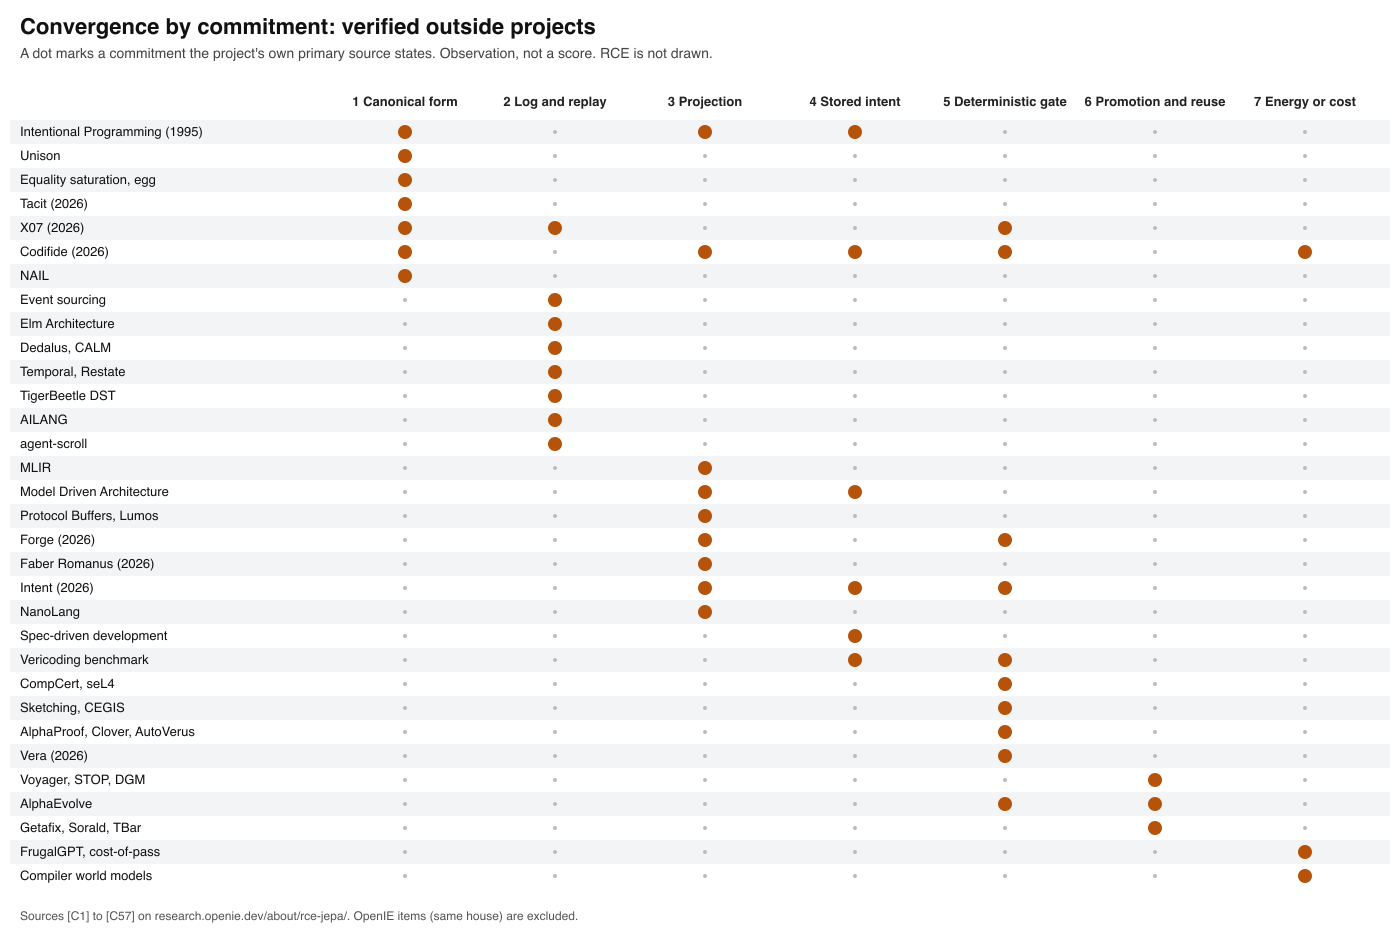
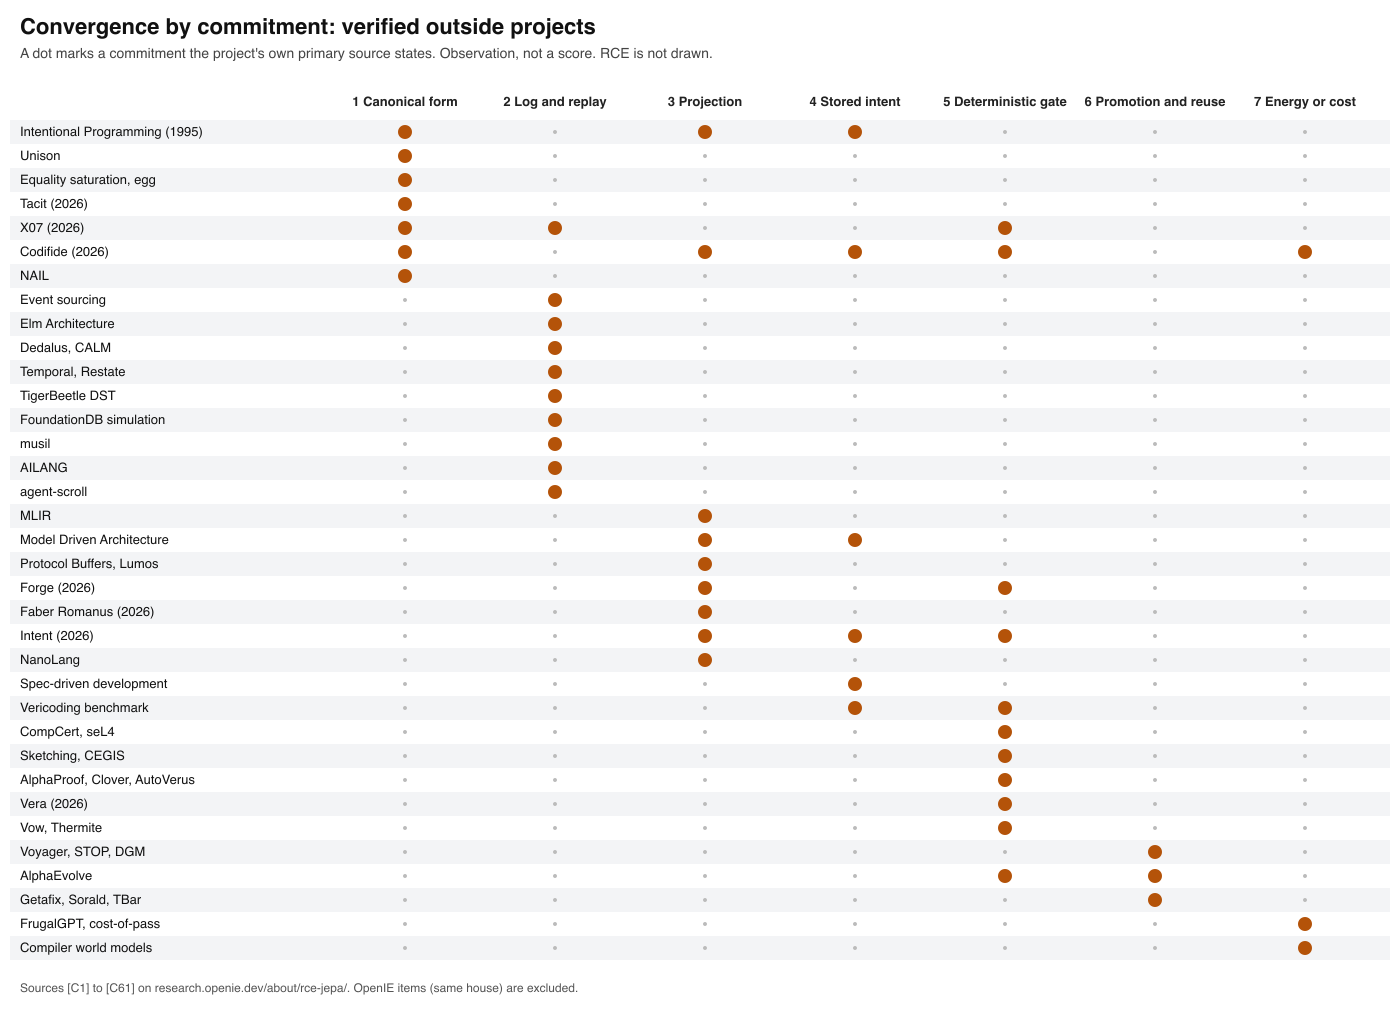
rce-jepa: redraw figure C1 with musil, FoundationDB, Vow, Thermite; thesis notes FoundationDB read in full

diff --git a/scripts/figures/rce_jepa_convergence.py b/scripts/figures/rce_jepa_convergence.py
@@ -6,11 +6,11 @@ rows = [
  ("Intentional Programming (1995)", [1,3,4]), ("Unison", [1]), ("Equality saturation, egg", [1]),
  ("Tacit (2026)", [1]), ("X07 (2026)", [1,2,5]), ("Codifide (2026)", [1,3,4,5,7]), ("NAIL", [1]),
  ("Event sourcing", [2]), ("Elm Architecture", [2]), ("Dedalus, CALM", [2]), ("Temporal, Restate", [2]),
- ("TigerBeetle DST", [2]), ("AILANG", [2]), ("agent-scroll", [2]),
+ ("TigerBeetle DST", [2]), ("FoundationDB simulation", [2]), ("musil", [2]), ("AILANG", [2]), ("agent-scroll", [2]),
  ("MLIR", [3]), ("Model Driven Architecture", [3,4]), ("Protocol Buffers, Lumos", [3]), ("Forge (2026)", [3,5]),
  ("Faber Romanus (2026)", [3]), ("Intent (2026)", [3,4,5]), ("NanoLang", [3]),
  ("Spec-driven development", [4]), ("Vericoding benchmark", [4,5]),
- ("CompCert, seL4", [5]), ("Sketching, CEGIS", [5]), ("AlphaProof, Clover, AutoVerus", [5]), ("Vera (2026)", [5]),
+ ("CompCert, seL4", [5]), ("Sketching, CEGIS", [5]), ("AlphaProof, Clover, AutoVerus", [5]), ("Vera (2026)", [5]), ("Vow, Thermite", [5]),
  ("Voyager, STOP, DGM", [6]), ("AlphaEvolve", [5,6]), ("Getafix, Sorald, TBar", [6]),
  ("FrugalGPT, cost-of-pass", [7]), ("Compiler world models", [7]),
 ]
@@ -31,7 +31,7 @@ for i,(name,ks) in enumerate(rows):
         x = left + j*cw + cw/2
         if j+1 in ks: o.append(f'<circle cx="{x}" cy="{y+rh/2}" r="7" fill="#b45309"/>')
         else: o.append(f'<circle cx="{x}" cy="{y+rh/2}" r="2" fill="#bbb"/>')
-o.append(f'<text x="20" y="{H-18}" font-size="12" fill="#555">Sources [C1] to [C57] on research.openie.dev/about/rce-jepa/. OpenIE items (same house) are excluded.</text>')
+o.append(f'<text x="20" y="{H-18}" font-size="12" fill="#555">Sources [C1] to [C61] on research.openie.dev/about/rce-jepa/. OpenIE items (same house) are excluded.</text>')
 o.append('</svg>')
 out = os.path.join(os.path.dirname(__file__), '../../public/figures/rce-jepa/convergence.svg')
 open(out,'w').write('\n'.join(o)); print(W,H)
